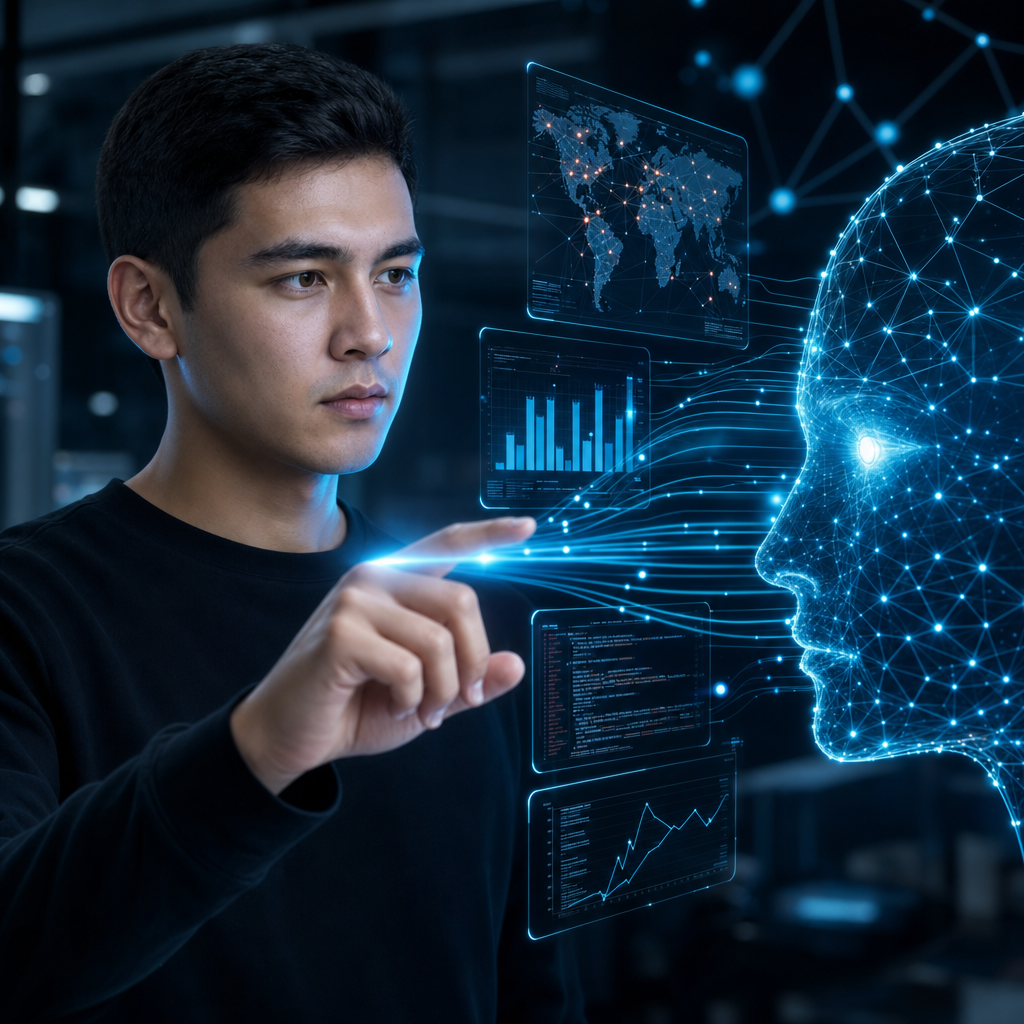
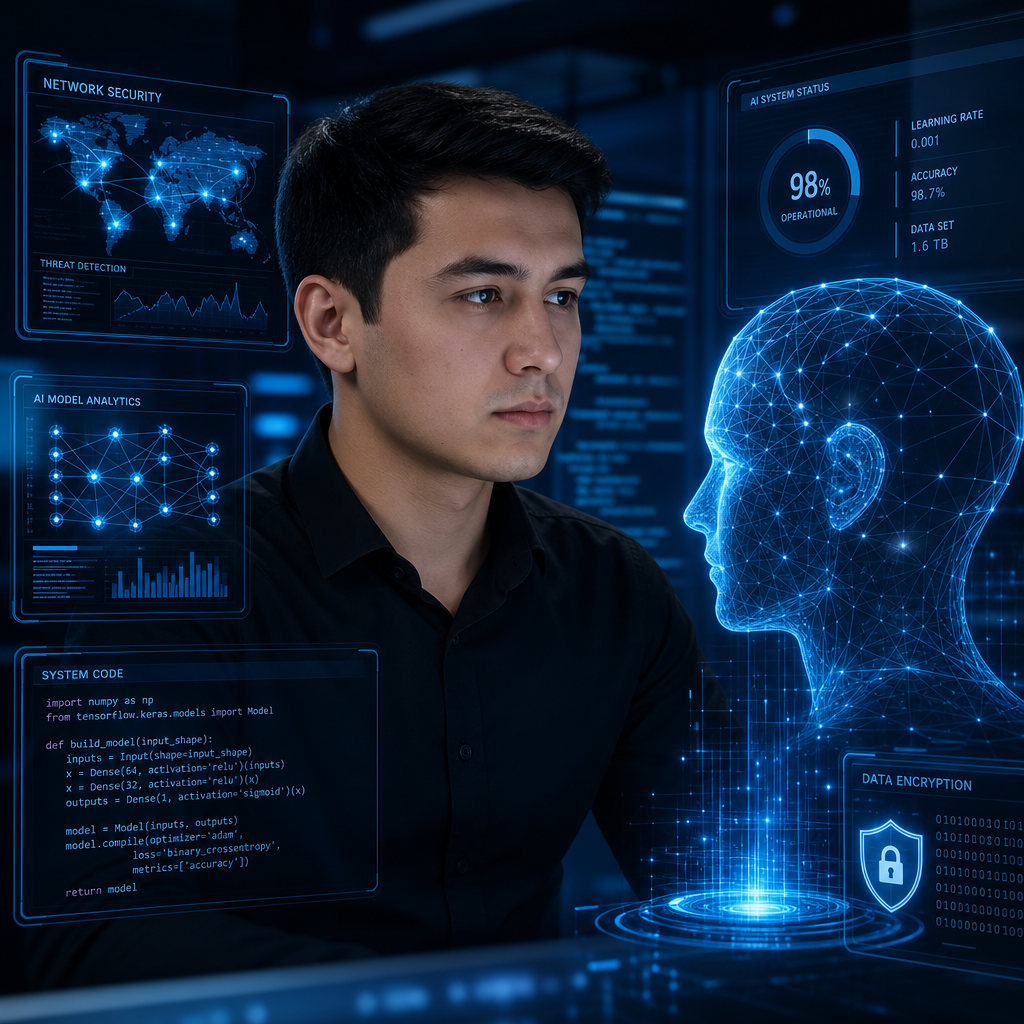
Restore original Kamolbek creator portrait image
- Revert to the first creator portrait instead of regenerated version
- Fix image dimensions to 1024 square and add cache-busting query

diff --git a/frontend/src/components/auth/AuthCreator.tsx b/frontend/src/components/auth/AuthCreator.tsx
@@ -2,6 +2,8 @@
 
 import { useTranslations } from "next-intl";
 
+const CREATOR_IMAGE = "/images/kamolbek-creator.png?v=original";
+
 export function AuthCreator() {
   const t = useTranslations("auth.landing.creator");
 
@@ -34,12 +36,12 @@ export function AuthCreator() {
         <div className="aeline-creator__visual">
           {/* eslint-disable-next-line @next/next/no-img-element */}
           <img
-            src="/images/kamolbek-creator.png"
+            src={CREATOR_IMAGE}
             alt={t("imageAlt")}
             className="aeline-creator__image"
             loading="lazy"
-            width={1108}
-            height={904}
+            width={1024}
+            height={1024}
           />
         </div>
       </div>